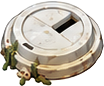
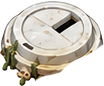
Polish Phase 1 UI and add feedback flow

Changed region(s): [[0.3173, 0.5116, 1.0, 1.0]]

diff --git a/src/ui/App.jsx b/src/ui/App.jsx
@@ -1,5 +1,5 @@
 import React, { useEffect, useRef, useState, useSyncExternalStore } from 'react';
-import { getLevel, getNextLevelId } from '../levels/index.js';
+import { defaultLevelId, getLevel, getNextLevelId } from '../levels/index.js';
 import { getBiome } from '../biomes/index.js';
 import './shell.css';
 
@@ -66,41 +66,42 @@ function ConsolePopup({ titleId, descriptionId, onDismiss, className = '', child
             event.preventDefault();
             onDismiss();
         }
-        if (event.key === 'Tab') {
-            const buttons = [...panel.current.querySelectorAll('button:not(:disabled)')];
-            if (!buttons.length) { event.preventDefault(); return; }
-            const first = buttons[0];
-            const last = buttons[buttons.length - 1];
-            if (event.shiftKey && document.activeElement === first) {
-                event.preventDefault(); last.focus();
-            } else if (!event.shiftKey && document.activeElement === last) {
-                event.preventDefault(); first.focus();
-            }
-        }
     }
 
     return (
         <div className="completion-overlay">
-            <section className={`completion-popup ${className}`} ref={panel} tabIndex={-1} role="dialog" aria-modal="true" aria-labelledby={titleId} aria-describedby={descriptionId} onKeyDown={handleKey}>
+            <section className={`completion-popup ${className}`} ref={panel} tabIndex={-1} role="dialog" aria-labelledby={titleId} aria-describedby={descriptionId} onKeyDown={handleKey}>
+                {onDismiss && <button type="button" className="popup-close-button" aria-label="Close help" data-initial-focus onClick={onDismiss}><span aria-hidden="true">×</span></button>}
                 <div className="completion-inner">{children}</div>
             </section>
         </div>
     );
 }
 
-function CompletionPopup({ nextLevelId, transitionDuration }) {
+function CompletionPopup({ nextLevelId, transitionDuration, onPlayAgain }) {
     const nextDive = nextLevelId ? getLevel(nextLevelId).diveNumber : null;
     return (
         <ConsolePopup titleId="completion-heading" descriptionId="completion-description">
                     <svg className="dive-check" viewBox="0 0 64 64" aria-hidden="true"><circle cx="32" cy="32" r="28" /><path d="M 18 32 L 28 42 L 46 23" /></svg>
-                    <h2 id="completion-heading">{nextLevelId ? 'GET READY' : 'DIVE COMPLETE'}</h2>
-                    <p id="completion-description">{nextLevelId ? `Preparing Dive ${nextDive}` : 'All objectives met'}</p>
-                    <div className="completion-actions">
-                        {nextLevelId ? <div className="transition-leds" role="status" aria-label={`Preparing Dive ${nextDive}`}>
+                    {nextLevelId ? <>
+                        <h2 id="completion-heading">GET READY</h2>
+                        <p id="completion-description">Preparing Dive {nextDive}</p>
+                        <div className="completion-actions">
+                            <div className="transition-leds" role="status" aria-label={`Preparing Dive ${nextDive}`}>
                             {Array.from({ length: 10 }, (_, index) => <i key={index} aria-hidden="true"
                                 style={{ animationDelay: `${(index + 1) * transitionDuration / 11}ms` }} />)}
-                        </div> : <button type="button" disabled>COMING SOON</button>}
-                    </div>
+                            </div>
+                        </div>
+                    </> : <>
+                        <h2 id="completion-heading">MISSION COMPLETE</h2>
+                        <p id="completion-description">Thanks for playing SUBOCEANIC!</p>
+                        <p>You've completed all available dives.</p>
+                        <p>SUBOCEANIC is still a work in progress, and I'd love your feedback.</p>
+                        <div className="completion-actions">
+                            <button type="button" className="start-dive-button" onClick={onPlayAgain}>PLAY AGAIN</button>
+                            <button type="button" onClick={() => window.open('https://github.com/andyfriedl/SUBOCEANIC/issues/new?template=feedback.yml', '_blank', 'noopener,noreferrer')}>GIVE FEEDBACK</button>
+                        </div>
+                    </>}
         </ConsolePopup>
     );
 }
@@ -119,9 +120,9 @@ function BiomeBriefing({ intro, onBegin }) {
     );
 }
 
-function HelpPopup({ onStart }) {
+function HelpPopup({ onDismiss }) {
     return (
-        <ConsolePopup titleId="start-heading" descriptionId="start-description" className="start-popup" onDismiss={onStart}>
+        <ConsolePopup titleId="start-heading" descriptionId="start-description" className="start-popup" onDismiss={onDismiss}>
             <h2 id="start-heading">HOW TO DIVE</h2>
             <p id="start-description">Clean the sea, recover lost objects, and complete the mission.</p>
             <dl className="start-controls">
@@ -132,7 +133,8 @@ function HelpPopup({ onStart }) {
             <p>Use the claws to collect cleanup items you find along the way.</p>
             <p>Some objects may be partially hidden behind coral or plants. Check dense areas carefully.</p>
             <div className="completion-actions">
-                <button type="button" onClick={onStart}>RESUME DIVE</button>
+                <button type="button" className="start-dive-button" onClick={onDismiss}>RESUME DIVE</button>
+                <button type="button" onClick={() => window.open('https://github.com/andyfriedl/SUBOCEANIC/issues/new?template=feedback.yml', '_blank', 'noopener,noreferrer')}>GIVE FEEDBACK</button>
             </div>
         </ConsolePopup>
     );
@@ -151,7 +153,6 @@ function MissionStatus({ state, onHelp, onRestart, helpDisabled, restartDisabled
             </section>
             <DiveStatus currentLevelId={state.currentLevelId} levelComplete={state.levelComplete} progressPercentage={state.progressPercentage} hasNextLevel={Boolean(getNextLevelId(state.currentLevelId))} />
             <div className="shell-controls">
-                <button className="control-menu" type="button" disabled><span aria-hidden="true">☰</span>MENU</button>
                 <button className="control-restart" type="button" disabled={restartDisabled} onClick={onRestart}><span aria-hidden="true">↻</span>RESTART</button>
                 <button className="control-help" type="button" disabled={helpDisabled} onClick={onHelp}><span aria-hidden="true">?</span>HELP</button>
             </div>
@@ -170,6 +171,13 @@ export default function App({ gameState, mountGame, sessionSize, onStartDive, on
     const showBriefing = showStart || startedBiome !== currentBiome;
     const showCompletion = state.levelComplete;
     useEffect(() => { setShowHelp(false); }, [state.currentLevelId]);
+    function restartFromBeginning() {
+        setShowHelp(false);
+        onHelpChange(false);
+        setShowStart(true);
+        setStartedBiome(null);
+        onRestartDive(defaultLevelId);
+    }
     return (
         <main className="game-shell" style={{
             '--game-width': `${sessionSize.width}px`,
@@ -177,8 +185,8 @@ export default function App({ gameState, mountGame, sessionSize, onStartDive, on
         }}>
             <ConsoleHeader />
             <MissionStatus state={state}
-                helpDisabled={showBriefing || showHelp || showCompletion}
-                restartDisabled={showBriefing || showHelp || !state.currentLevelId}
+                helpDisabled={showCompletion}
+                restartDisabled={!state.currentLevelId}
                 onHelp={() => { onHelpChange(true); setShowHelp(true); }}
                 onRestart={() => {
                     setShowHelp(false);
@@ -187,9 +195,13 @@ export default function App({ gameState, mountGame, sessionSize, onStartDive, on
                 }} />
             <div className="viewport-bezel">
                 <GameViewport mountGame={mountGame} />
-                {showBriefing && intro && <BiomeBriefing intro={intro} onBegin={() => { onStartDive(); setStartedBiome(currentBiome); setShowStart(false); }} />}
-                {showHelp && !showCompletion && <HelpPopup onStart={() => { onHelpChange(false); setShowHelp(false); }} />}
-                {!showBriefing && showCompletion && <CompletionPopup key={state.currentLevelId} nextLevelId={getNextLevelId(state.currentLevelId)} transitionDuration={transitionDuration} />}
+                {showCompletion && !showBriefing
+                    ? <CompletionPopup key={state.currentLevelId} nextLevelId={getNextLevelId(state.currentLevelId)} transitionDuration={transitionDuration} onPlayAgain={restartFromBeginning} />
+                    : showHelp
+                        ? <HelpPopup onDismiss={() => { onHelpChange(false); setShowHelp(false); }} />
+                        : showBriefing && intro
+                            ? <BiomeBriefing intro={intro} onBegin={() => { onStartDive(); setStartedBiome(currentBiome); setShowStart(false); }} />
+                            : null}
             </div>
             <aside className="right-rail" aria-hidden="true" />
             <footer className="chassis-trim">

diff --git a/src/ui/shell.css b/src/ui/shell.css
@@ -67,7 +67,7 @@ h2 { font-size: 12px; letter-spacing: 0.7px; margin: 0 0 10px; }
 .shell-controls button { height: 32px; display: flex; align-items: center; justify-content: flex-start; gap: 20px; padding: 0 17px; border: 2px solid #736d59; border-radius: 7px; box-shadow: inset 0 2px 0 #ffffff55, inset 0 -3px 0 #0003, 0 2px 1px #0004; color: var(--text-cream); font: bold 10px Arial, sans-serif; cursor: default; opacity: 1; }
 .shell-controls button span { font-size: 18px; width: 22px; text-align: center; }
 .control-menu { background: var(--accent-red); }
-.shell-controls .control-restart { background: var(--console-cream); color: var(--border-dark); }
+.shell-controls .control-restart { background: var(--accent-red); color: var(--text-cream); }
 .control-help { background: #008ead; }
 .chassis-trim { grid-column: 1 / 4; grid-row: 3; display: flex; align-items: center; gap: 16px; color: #4e574f; padding: 0 6px; border: 1px solid #aea58c; border-radius: 5px 5px 14px 14px; box-shadow: inset 0 1px 1px #fff8; font-size: 9px; letter-spacing: 1.5px; }
 .chassis-trim svg { width: 29px; height: 29px; fill: none; stroke: #7b8478; stroke-width: 2; }
@@ -88,7 +88,9 @@ h2 { font-size: 12px; letter-spacing: 0.7px; margin: 0 0 10px; }
 /* The overlay is confined to the canvas interior, leaving the console undimmed. */
 .viewport-bezel { position: relative; }
 .completion-overlay { position: absolute; inset: 12px; z-index: 2; display: grid; place-items: center; background: #03192355; }
-.completion-popup { width: 320px; padding: 8px; border: 2px solid #eee1c6; border-radius: 18px; background: var(--console-cream); box-shadow: inset 0 0 0 3px var(--console-tan), 0 8px 22px #0006; }
+.completion-popup { position: relative; width: 320px; padding: 8px; border: 2px solid #eee1c6; border-radius: 18px; background: var(--console-cream); box-shadow: inset 0 0 0 3px var(--console-tan), 0 8px 22px #0006; }
+.popup-close-button { position: absolute; top: 12px; right: 12px; display: grid; place-items: center; width: 28px; height: 28px; padding: 0; border: 2px solid #736d59; border-radius: 50%; background: var(--console-cream); color: var(--border-dark); font: bold 20px/1 Arial, sans-serif; cursor: pointer; }
+.popup-close-button:focus-visible { outline: 2px solid var(--dive-success); outline-offset: 3px; }
 .completion-inner { padding: 20px 18px; border: 2px solid #8f9489; border-radius: 11px; background: var(--panel-navy); text-align: center; color: var(--dive-success); box-shadow: inset 0 2px 4px #0007; }
 .completion-inner .dive-check { margin: 0 auto 16px; width: 44px; height: 44px; }
 .completion-inner h2 { margin: 0; font: 25px 'Suboceanic LCD', 'Courier New', monospace; text-shadow: 0 0 7px #8dffb555; }
@@ -100,7 +102,9 @@ h2 { font-size: 12px; letter-spacing: 0.7px; margin: 0 0 10px; }
 .completion-actions button { flex: 1; padding: 10px 8px; border: 2px solid #736d59; border-radius: 6px; background: var(--console-cream); color: var(--border-dark); font: bold 11px Arial, sans-serif; box-shadow: inset 0 1px 0 #fff8, 0 2px 1px #0005; cursor: pointer; }
 .completion-actions button:disabled { opacity: 0.4; cursor: default; }
 .completion-actions button:focus-visible { outline: 2px solid var(--dive-success); outline-offset: 3px; }
-
+.completion-actions .start-dive-button {
+    background: var(--dive-success);
+}
 /* Startup instructions share the completion popup's casing and overlay. */
 .start-popup { width: 360px; max-width: calc(100% - 24px); }
 .start-controls { margin: 18px 0; text-align: left; color: var(--text-cream); font-size: 13px; }
@@ -109,9 +113,21 @@ h2 { font-size: 12px; letter-spacing: 0.7px; margin: 0 0 10px; }
 .start-controls dd { margin: 0; }
 .start-dive-button { animation: start-dive-pulse 1.4s ease-in-out infinite; }
 @keyframes start-dive-pulse {
-    0%, 100% { filter: brightness(1); }
-    50% { filter: brightness(1.12); box-shadow: inset 0 1px 0 #fff8, 0 0 10px #eee1c666; }
-}
+    0%, 100% {
+        filter: brightness(1);
+        transform: scale(1);
+        box-shadow: inset 0 1px 0 #fff8, 0 2px 1px #0005;
+    }
+
+    50% {
+        filter: brightness(1.18);
+        transform: scale(1.025);
+        box-shadow:
+            inset 0 1px 0 #fff8,
+            0 0 14px #8dffb599,
+            0 2px 1px #0005;
+    }
+}   
 @media (prefers-reduced-motion: reduce) {
     .start-dive-button { animation: none; }
 }

diff --git a/src/biomes/index.js b/src/biomes/index.js
@@ -10,12 +10,12 @@ const biomes = new Map(biomeBackgrounds.map(background => {
     config.biome = background.biome;
     config.background.texture = background.key;
     config.intro ??= {
-        title: `BIOME ${background.biome}`, label: `BIOME ${background.biome}`,
+        title: 'OCEAN', label: 'OCEAN BIOME',
         description: 'Explore the seabed on your next dive.', mission: 'Collect debris and clean the sea.',
     };
     return [config.biome, config];
 }));
-export const biomeOrder = [...biomes.values()].filter(config => !config.isolated).map(config => config.biome);
+export const biomeOrder = [...biomes.keys()];
 export const availableBiomeIds = [...biomes.keys()];
 
 export function getBiome(id) {

diff --git a/src/biomes/mid.js b/src/biomes/mid.js
@@ -5,7 +5,7 @@ export default {
     fish: { schoolCount: 1, fishPerSchool: 13, color: '#183a4b', opacity: { min: 0.35, max: 0.55 } },
     intro: {
         title: 'MID DEPTHS',
-        label: 'BIOME 50',
+        label: 'MID BIOME',
         description: 'Less sunlight reaches these depths. Plants grow sparse and different seafloor organisms appear.',
         mission: 'Use your headlights to search for debris and recover lost objects.',
     },

diff --git a/src/biomes/deep.js b/src/biomes/deep.js
@@ -6,7 +6,7 @@ export default {
     fish: { schoolCount: 2, fishPerSchool: 5, color: '#0c1d2c', opacity: { min: 0.22, max: 0.35 } },
     intro: {
         title: 'DEEP OCEAN',
-        label: 'BIOME 100',
+        label: 'DEEP BIOME',
         description: 'Almost no sunlight reaches this seabed. Faint silhouettes emerge beyond the headlights.',
         mission: 'Search within your light and recover debris from the depths.',
     },

diff --git a/src/biomes/shallow.js b/src/biomes/shallow.js
@@ -4,7 +4,7 @@ export default {
     fish: { schoolCount: 1 },
     intro: {
         title: 'SHALLOW WATERS',
-        label: 'BIOME 1',
+        label: 'SHALLOW BIOME',
         description: 'Sunlight reaches the seafloor, supporting abundant plants and coral. Debris can harm these habitats and marine life.',
         mission: 'Clean up debris and recover lost objects.',
     },

diff --git a/src/main.js b/src/main.js
@@ -82,8 +82,7 @@ function setHelpOpen(open) {
     setDiveInput(diveStarted && !helpOpen);
 }
 
-function restartDive() {
-    const levelId = gameState.getSnapshot().currentLevelId;
+function restartDive(levelId = gameState.getSnapshot().currentLevelId) {
     if (!activeGame || !levelId) return;
     cancelTransition();
     diveStarted = false;
